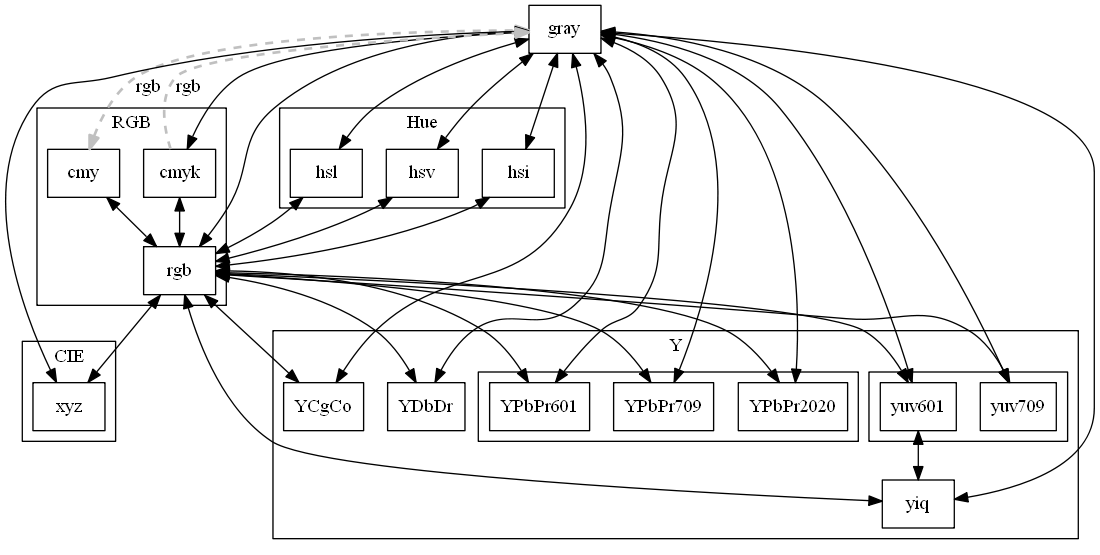
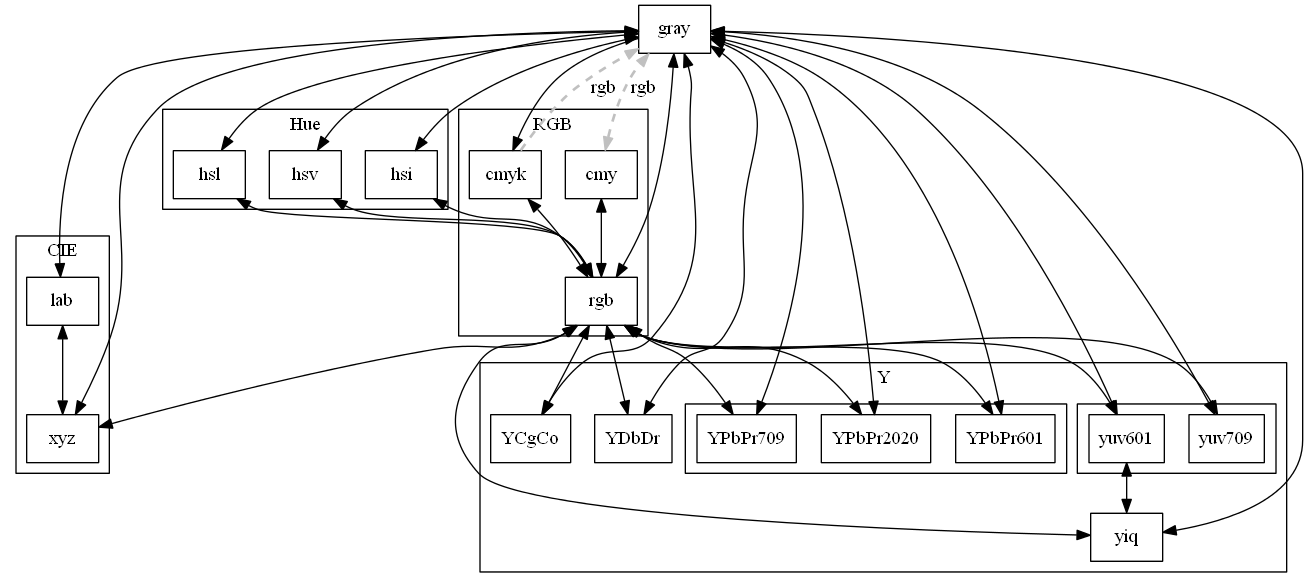
* fix: [internal] conversions lab<-> cmy, cmyk, lab, hsi * update:[doc] Conversion graph * update:[doc] Lab introduced to HTML documentation

diff --git a/doc/index.html b/doc/index.html
@@ -29,7 +29,7 @@
 			<dt><h3><a name="Install"></a>Install</a></h3></dt>
 			<dd>
 				<ol>
-					<li>Clone the project from github.</li>
+					<li>Clone the project from github. Use <i>master</i> branch.</li>
 					<li>Optional: Copy <code>src</code> folder in some for your suitable place.<br>
 					If you want to use directly from place where you clone color project you may skip this step.
 					</li>
@@ -94,17 +94,19 @@ int main( int argc, char *argv[] )
 
 			<dt><h3><a name="Links">Links</a></h3></dt>
 			<dd>
-				<a href="https://en.wikipedia.org/wiki/YDbDr">https://en.wikipedia.org/wiki/YDbDr</a>
-				<a href="https://en.wikipedia.org/wiki/YPbPr">https://en.wikipedia.org/wiki/YPbPr</a>
-				<a href="https://en.wikipedia.org/wiki/YUV">https://en.wikipedia.org/wiki/YUV</a>
-				<a href="https://github.com/ibireme/yy_color_convertor">https://github.com/ibireme/yy_color_convertor</a>
-				<a href="http://discoverybiz.net/enu0/faq/faq_YUV_YCbCr_YPbPr.html">http://discoverybiz.net/enu0/faq/faq_YUV_YCbCr_YPbPr.html</a>
-				<br>
-				<a href="http://colorizer.org/">http://colorizer.org/</a>
-				<div>
-					YCbCr - Non constan liminance  - <br>
-					<a href="https://www.itu.int/dms_pubrec/itu-r/rec/bt/R-REC-BT.2020-2-201510-I!!PDF-E.pdf">https://www.itu.int/dms_pubrec/itu-r/rec/bt/R-REC-BT.2020-2-201510-I!!PDF-E.pdf</a>
-				</div>
+				<ul>
+					<li><a href="https://en.wikipedia.org/wiki/YDbDr">https://en.wikipedia.org/wiki/YDbDr</a></li>
+					<li><a href="https://en.wikipedia.org/wiki/YPbPr">https://en.wikipedia.org/wiki/YPbPr</a></li>
+					<li><a href="https://en.wikipedia.org/wiki/YUV">https://en.wikipedia.org/wiki/YUV</a></li>
+					<li><a href="https://github.com/ibireme/yy_color_convertor">https://github.com/ibireme/yy_color_convertor</a></li>
+					<li><a href="http://discoverybiz.net/enu0/faq/faq_YUV_YCbCr_YPbPr.html">http://discoverybiz.net/enu0/faq/faq_YUV_YCbCr_YPbPr.html</a></li>
+
+					<li><a href="http://colorizer.org/">http://colorizer.org/</a></li>
+					<li>
+						YCbCr - Non constan liminance  - <br>
+						<a href="https://www.itu.int/dms_pubrec/itu-r/rec/bt/R-REC-BT.2020-2-201510-I!!PDF-E.pdf">https://www.itu.int/dms_pubrec/itu-r/rec/bt/R-REC-BT.2020-2-201510-I!!PDF-E.pdf</a>
+					</li>
+				<ul>
 			</dd>
 
 		</dl>

diff --git a/doc/color.html b/doc/color.html
@@ -24,6 +24,7 @@
 							<li><a href="#hsi">hsi  </a></li>
 							<li><a href="#hsl">hsl  </a></li>
 							<li><a href="#hsv">hsv  </a></li>
+							<li><a href="#lab">lab  </a></li>
 							<li><a href="#rgb">rgb  </a></li>
 							<li><a href="#xyz">xyz  </a></li>
 							<li><a href="#yiq">yiq  </a></li>
@@ -96,6 +97,14 @@
 							<dt>Decription</dt><dd>Implements HSI color model.</dd>
 							<dt>Example:</dt><dd><code>::color::hsi&lt; double &gt; c;</code></dd>
 							<dt>See also</dt><dd><a href="https://en.wikipedia.org/wiki/HSL_and_HSV">Wikipedia HSI</a></dd>
+						</dl><hr width="%20">
+
+						<dl>
+							<dt>Name</dt><dd><a name="lab" />lab</dd>
+							<dt>Declaration</dt><dd><code>template&lt; typename type_name &gt; using lab = ::color::model&lt; <i>unspecified</i> &gt;;</code></dd>
+							<dt>Decription</dt><dd>Implements LAB( CIELAB ) color model.</dd>
+							<dt>Example:</dt><dd><code>::color::lab&lt; double &gt; c;</code></dd>
+							<dt>See also</dt><dd><a href="https://en.wikipedia.org/wiki/Lab_color_space">Wikipedia LAB</a></dd>
 						</dl><hr width="%20">
 
 						<dl>

diff --git a/doc/model.html b/doc/model.html
@@ -400,7 +400,7 @@
 							<dd>
 								<dl>
 									<dt>Description</dt>
-									<dd>Non-const modifiable version of <code>operator[]()code</code>. Modification of return value has effect on instance as using set function.</dd>
+									<dd>Non-const modifiable version of <code>operator[]( index_input_const_type index )</code>. Modification of return value has effect on instance as using set function.</dd>
 									<dt>Definition</dt>
 									<dd><code>proxy_type operator[]( index_input_const_type index );</code></dd>
 								</dl>

diff --git a/example/test/pallete.cpp b/example/test/pallete.cpp
@@ -176,5 +176,41 @@ void test_pallete()
   make_image<color::xyz<double> >( "./palette/xyz-2-080.tga" , 0.8, 2 );
   make_image<color::xyz<double> >( "./palette/xyz-2-090.tga" , 0.9, 2 );
   make_image<color::xyz<double> >( "./palette/xyz-2-100.tga" , 1.0, 2 );
+
+  make_image<color::lab<double> >( "./palette/lab-0-000.tga" , 0.0, 0 );
+  make_image<color::lab<double> >( "./palette/lab-0-010.tga" , 0.1, 0 );
+  make_image<color::lab<double> >( "./palette/lab-0-020.tga" , 0.2, 0 );
+  make_image<color::lab<double> >( "./palette/lab-0-030.tga" , 0.3, 0 );
+  make_image<color::lab<double> >( "./palette/lab-0-040.tga" , 0.4, 0 );
+  make_image<color::lab<double> >( "./palette/lab-0-050.tga" , 0.5, 0 );
+  make_image<color::lab<double> >( "./palette/lab-0-060.tga" , 0.6, 0 );
+  make_image<color::lab<double> >( "./palette/lab-0-070.tga" , 0.7, 0 );
+  make_image<color::lab<double> >( "./palette/lab-0-080.tga" , 0.8, 0 );
+  make_image<color::lab<double> >( "./palette/lab-0-090.tga" , 0.9, 0 );
+  make_image<color::lab<double> >( "./palette/lab-0-100.tga" , 1.0, 0 );
+
+  make_image<color::lab<double> >( "./palette/lab-1-000.tga" , 0.0, 1 );
+  make_image<color::lab<double> >( "./palette/lab-1-010.tga" , 0.1, 1 );
+  make_image<color::lab<double> >( "./palette/lab-1-020.tga" , 0.2, 1 );
+  make_image<color::lab<double> >( "./palette/lab-1-030.tga" , 0.3, 1 );
+  make_image<color::lab<double> >( "./palette/lab-1-040.tga" , 0.4, 1 );
+  make_image<color::lab<double> >( "./palette/lab-1-050.tga" , 0.5, 1 );
+  make_image<color::lab<double> >( "./palette/lab-1-060.tga" , 0.6, 1 );
+  make_image<color::lab<double> >( "./palette/lab-1-070.tga" , 0.7, 1 );
+  make_image<color::lab<double> >( "./palette/lab-1-080.tga" , 0.8, 1 );
+  make_image<color::lab<double> >( "./palette/lab-1-090.tga" , 0.9, 1 );
+  make_image<color::lab<double> >( "./palette/lab-1-100.tga" , 1.0, 1 );
+
+  make_image<color::lab<double> >( "./palette/lab-2-000.tga" , 0.0, 2 );
+  make_image<color::lab<double> >( "./palette/lab-2-010.tga" , 0.1, 2 );
+  make_image<color::lab<double> >( "./palette/lab-2-020.tga" , 0.2, 2 );
+  make_image<color::lab<double> >( "./palette/lab-2-030.tga" , 0.3, 2 );
+  make_image<color::lab<double> >( "./palette/lab-2-040.tga" , 0.4, 2 );
+  make_image<color::lab<double> >( "./palette/lab-2-050.tga" , 0.5, 2 );
+  make_image<color::lab<double> >( "./palette/lab-2-060.tga" , 0.6, 2 );
+  make_image<color::lab<double> >( "./palette/lab-2-070.tga" , 0.7, 2 );
+  make_image<color::lab<double> >( "./palette/lab-2-080.tga" , 0.8, 2 );
+  make_image<color::lab<double> >( "./palette/lab-2-090.tga" , 0.9, 2 );
+  make_image<color::lab<double> >( "./palette/lab-2-100.tga" , 1.0, 2 );
  }
 

diff --git a/src/color/lab/convert/lab.hpp b/src/color/lab/convert/lab.hpp
@@ -41,29 +41,15 @@ namespace color
          typedef typename container_left_trait_type::input_type         container_left_input_type;
          typedef typename container_right_trait_type::input_const_type  container_right_const_input_type;
 
-         enum
-          { // TODO
-            ll_p  = ::color::place::_internal::luma<category_left_type>::position_enum
-           ,il_p  = ::color::place::_internal::inphase<category_left_type>::position_enum
-           ,ql_p  = ::color::place::_internal::quadrature<category_left_type>::position_enum
-          };
-
-         enum
-          {// TODO
-            lr_p  = ::color::place::_internal::luma<category_right_type>::position_enum
-           ,ir_p  = ::color::place::_internal::inphase<category_right_type>::position_enum
-           ,qr_p  = ::color::place::_internal::quadrature<category_right_type>::position_enum
-          };
-
          static void process
           (
             container_left_input_type         left
            ,container_right_const_input_type  right
           )
           {
-           container_left_trait_type::template set<ll_p>( left, reformat_type::template process<ll_p,lr_p>( container_right_trait_type::template get<lr_p>( right ) ) );
-           container_left_trait_type::template set<il_p>( left, reformat_type::template process<il_p,ir_p>( container_right_trait_type::template get<ir_p>( right ) ) );
-           container_left_trait_type::template set<ql_p>( left, reformat_type::template process<ql_p,qr_p>( container_right_trait_type::template get<qr_p>( right ) ) );
+           container_left_trait_type::template set<0>( left, reformat_type::template process<0,0>( container_right_trait_type::template get<0>( right ) ) );
+           container_left_trait_type::template set<1>( left, reformat_type::template process<1,1>( container_right_trait_type::template get<1>( right ) ) );
+           container_left_trait_type::template set<2>( left, reformat_type::template process<2,2>( container_right_trait_type::template get<2>( right ) ) );
           }
        };
 

diff --git a/src/color/cmyk/convert/lab.hpp b/src/color/cmyk/convert/lab.hpp
@@ -1,0 +1,60 @@
+#ifndef color_cmyk_convert_lab
+#define color_cmyk_convert_lab
+
+#include "../../_internal/convert.hpp"
+
+#include "../category.hpp"
+
+
+#include "../../lab/lab.hpp"
+#include "../../xyz/xyz.hpp"
+#include "../../rgb/rgb.hpp"
+
+namespace color
+ {
+  namespace _internal
+   {
+
+    template
+     <
+       typename  cmyk_tag_name
+      ,typename   lab_tag_name
+     >
+     struct convert
+      <
+        ::color::category::cmyk< cmyk_tag_name >
+       ,::color::category::lab< lab_tag_name >
+      >
+      {
+       public:
+         typedef ::color::category::cmyk< cmyk_tag_name >    cmyk_category_type, category_left_type;
+         typedef ::color::category::lab< lab_tag_name >       lab_category_type, category_right_type;
+
+         typedef double scalar_type;
+
+         typedef ::color::model< cmyk_category_type > cmyk_model_type;
+         typedef ::color::model< lab_category_type >   lab_model_type;
+
+         typedef ::color::rgb< scalar_type >  rgb_model_type;
+         typedef ::color::xyz< scalar_type >  xyz_model_type;
+
+         typedef ::color::trait::container<category_left_type>     container_left_trait_type;
+         typedef ::color::trait::container<category_right_type>    container_right_trait_type;
+
+         typedef typename container_left_trait_type::input_type         container_left_input_type;
+         typedef typename container_right_trait_type::input_const_type  container_right_const_input_type;
+
+         static void process
+          (
+            container_left_input_type         left
+           ,container_right_const_input_type  right
+          )
+          {
+           left = cmyk_model_type( rgb_model_type( xyz_model_type( lab_model_type( right ) ) ) ).container();
+          }
+      };
+
+   }
+ }
+
+#endif

diff --git a/src/color/cmy/convert/lab.hpp b/src/color/cmy/convert/lab.hpp
@@ -1,0 +1,60 @@
+#ifndef color_cmy_convert_lab
+#define color_cmy_convert_lab
+
+#include "../../_internal/convert.hpp"
+
+#include "../category.hpp"
+
+
+#include "../../lab/lab.hpp"
+#include "../../xyz/xyz.hpp"
+#include "../../rgb/rgb.hpp"
+
+namespace color
+ {
+  namespace _internal
+   {
+
+    template
+     <
+       typename  cmy_tag_name
+      ,typename  lab_tag_name
+     >
+     struct convert
+      <
+        ::color::category::cmy< cmy_tag_name >
+       ,::color::category::lab< lab_tag_name >
+      >
+      {
+       public:
+         typedef ::color::category::cmy< cmy_tag_name >    cmy_category_type, category_left_type;
+         typedef ::color::category::lab< lab_tag_name >    lab_category_type, category_right_type;
+
+         typedef double scalar_type;
+
+         typedef ::color::model< cmy_category_type > cmy_model_type;
+         typedef ::color::model< lab_category_type >  lab_model_type;
+
+         typedef ::color::rgb< scalar_type >  rgb_model_type;
+         typedef ::color::xyz< scalar_type >  xyz_model_type;
+
+         typedef ::color::trait::container<category_left_type>     container_left_trait_type;
+         typedef ::color::trait::container<category_right_type>    container_right_trait_type;
+
+         typedef typename container_left_trait_type::input_type         container_left_input_type;
+         typedef typename container_right_trait_type::input_const_type  container_right_const_input_type;
+
+         static void process
+          (
+            container_left_input_type         left
+           ,container_right_const_input_type  right
+          )
+          {
+           left = cmy_model_type( rgb_model_type( xyz_model_type( lab_model_type( right ) ) ) ).container();
+          }
+      };
+
+   }
+ }
+
+#endif

diff --git a/src/color/hsi/convert/lab.hpp b/src/color/hsi/convert/lab.hpp
@@ -1,0 +1,60 @@
+#ifndef color_hsi_convert_lab
+#define color_hsi_convert_lab
+
+#include "../../_internal/convert.hpp"
+
+#include "../category.hpp"
+
+
+#include "../../lab/lab.hpp"
+#include "../../xyz/xyz.hpp"
+#include "../../rgb/rgb.hpp"
+
+namespace color
+ {
+  namespace _internal
+   {
+
+    template
+     <
+       typename  hsi_tag_name
+      ,typename  lab_tag_name
+     >
+     struct convert
+      <
+        ::color::category::hsi< hsi_tag_name >
+       ,::color::category::lab< lab_tag_name >
+      >
+      {
+       public:
+         typedef ::color::category::hsi< hsi_tag_name >    hsi_category_type, category_left_type;
+         typedef ::color::category::lab< lab_tag_name >    lab_category_type, category_right_type;
+
+         typedef double scalar_type;
+
+         typedef ::color::model< hsi_category_type > hsi_model_type;
+         typedef ::color::model< lab_category_type >  lab_model_type;
+
+         typedef ::color::rgb< scalar_type >  rgb_model_type;
+         typedef ::color::xyz< scalar_type >  xyz_model_type;
+
+         typedef ::color::trait::container<category_left_type>     container_left_trait_type;
+         typedef ::color::trait::container<category_right_type>    container_right_trait_type;
+
+         typedef typename container_left_trait_type::input_type         container_left_input_type;
+         typedef typename container_right_trait_type::input_const_type  container_right_const_input_type;
+
+         static void process
+          (
+            container_left_input_type         left
+           ,container_right_const_input_type  right
+          )
+          {
+           left = hsi_model_type( rgb_model_type( xyz_model_type( lab_model_type( right ) ) ) ).container();
+          }
+      };
+
+   }
+ }
+
+#endif

diff --git a/example/test/gray_test.cpp b/example/test/gray_test.cpp
@@ -144,6 +144,17 @@ void make_gray_xyz( gray_image_type & gray, bgr_image_type const& image )
    }
  }
 
+void make_gray_lab( gray_image_type & gray, bgr_image_type const& image )
+ {
+  auto gc = gray.begin();
+  for( auto & c : image )
+   {
+    gc->set<0>( ::color::lab< std::uint8_t >( c )[0] );
+    ++gc;
+   }
+ }
+
+
 template< ::color::constant::YPbPr::reference_enum reference_number >
  void make_gray_YPbPr( gray_image_type & gray, bgr_image_type const& image )
   {
@@ -183,6 +194,7 @@ int gray_test( int argc, char const *argv[] )
   make_gray_intens_hsi( gray, image ); save_image_gray( "./gray/satur-hsi.tga",    gray, 1600, 1195 );
 
   make_gray_xyz( gray, image );        save_image_gray( "./gray/xyz-Y.tga",        gray, 1600, 1195 );
+  make_gray_lab( gray, image );        save_image_gray( "./gray/lab-L.tga",        gray, 1600, 1195 );
 
   make_gray_YPbPr<::color::constant::YPbPr::BT_601_entity>(  gray, image );  save_image_gray( "./gray/YPbPr601-y.tga",     gray, 1600, 1195 );
   make_gray_YPbPr<::color::constant::YPbPr::BT_709_entity>(  gray, image );  save_image_gray( "./gray/YPbPr709-y.tga",     gray, 1600, 1195 );

diff --git a/src/color/cmyk/convert/convert.hpp b/src/color/cmyk/convert/convert.hpp
@@ -18,3 +18,5 @@
 #include "./YPbPr.hpp"
 
 #include "./xyz.hpp"
+
+#include "./lab.hpp"

diff --git a/src/color/lab/convert/convert.hpp b/src/color/lab/convert/convert.hpp
@@ -18,3 +18,5 @@
 #include "./YPbPr.hpp"
 
 #include "./xyz.hpp"
+
+#include "./lab.hpp"
